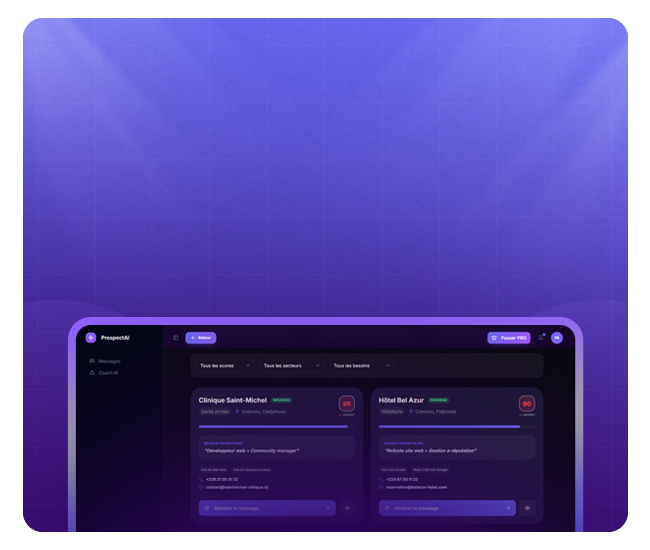
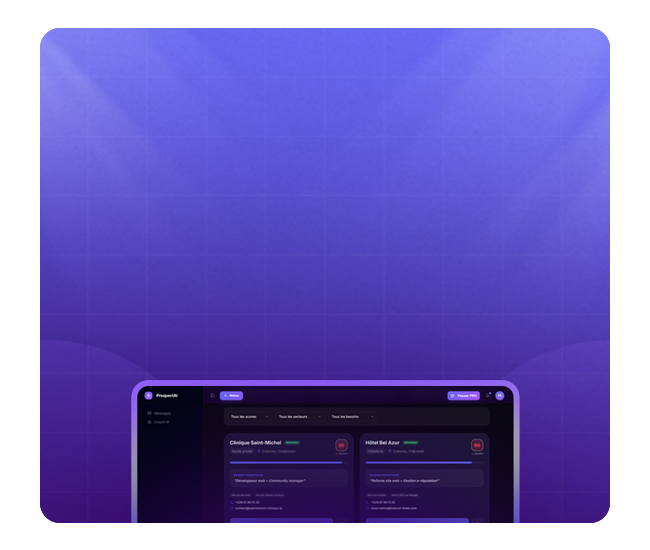
style: fix mobile hero aspect ratio and prevent content overlap

Changed region(s): [[0.0308, 0.0309, 0.9846, 0.9891]]

diff --git a/src/pages/Landing.tsx b/src/pages/Landing.tsx
@@ -69,8 +69,8 @@ const Landing = () => {
       {/* Hero */}
       <section className="pt-4 pb-0">
         <div className="w-full">
-          <div className="hero-custom-bg px-4 pt-16 pb-16 md:px-6 md:py-24 text-center overflow-hidden">
-            <div className="relative z-10 mx-auto max-w-4xl -mt-2 md:-mt-5">
+          <div className="hero-custom-bg px-2 pt-12 pb-12 md:px-6 md:py-24 text-center overflow-hidden">
+            <div className="relative z-10 mx-auto max-w-4xl pt-4 md:pt-0 -mt-2 md:-mt-5">
               {/* Small Badge */}
               <div className="inline-flex items-center gap-1.5 px-3 py-1 md:px-4 md:py-1.5 rounded-full bg-white text-primary mb-3 md:mb-4 animate-fade-in-up">
                 <Zap className="h-3 md:h-3.5 w-3 md:w-3.5 fill-primary" />
@@ -87,7 +87,7 @@ const Landing = () => {
                 Messages personnalisés, coaching closing — tout est automatisé.
               </p>
               
-              <div className="flex flex-col items-center gap-4 sm:flex-row sm:justify-center animate-fade-in-up-delay-2">
+              <div className="flex flex-col items-center gap-3 sm:flex-row sm:justify-center animate-fade-in-up-delay-2">
                 <Link to="/login">
                   <Button size="default" className="h-9 md:h-10 px-4 md:px-5 text-[10px] md:text-xs font-bold rounded-xl bg-primary text-white border-0 shadow-lg hover:scale-105 transition-transform uppercase tracking-wider">
                     Découvrir mes opportunités
@@ -95,7 +95,7 @@ const Landing = () => {
                   </Button>
                 </Link>
                 
-                <div className="flex items-center gap-3">
+                <div className="flex items-center gap-2.5 md:gap-3">
                   <div className="flex -space-x-2.5">
                     {[1, 2, 3, 4].map((i) => (
                       <div key={i} className="h-7 md:h-8 w-7 md:w-8 rounded-full border-2 border-white/20 bg-muted/20 flex items-center justify-center overflow-hidden">

diff --git a/src/index.css b/src/index.css
@@ -136,8 +136,8 @@
 
   .hero-custom-bg {
     background-image: url('/hero-mobile-bg.png');
-    background-size: cover;
-    background-position: bottom center;
+    background-size: contain;
+    background-position: top center;
     background-repeat: no-repeat;
     position: relative;
     color: white;
@@ -152,13 +152,13 @@
   }
 
   .text-hero-title {
-    font-size: clamp(1.4rem, 6vw, 3rem);
+    font-size: clamp(1.2rem, 5.5vw, 3rem);
     line-height: 1.1;
     font-weight: 800;
   }
 
   .text-hero-sub {
-    font-size: clamp(0.7rem, 2.5vw, 0.875rem);
+    font-size: clamp(0.65rem, 2.2vw, 0.875rem);
     color: rgba(255, 255, 255, 0.7);
     max-width: 700px;
     margin-left: auto;
